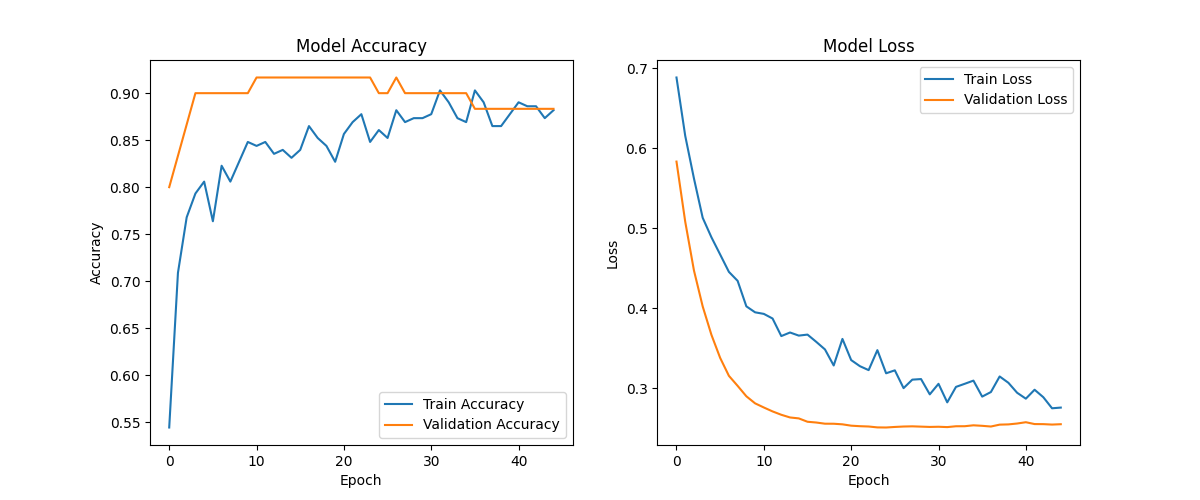
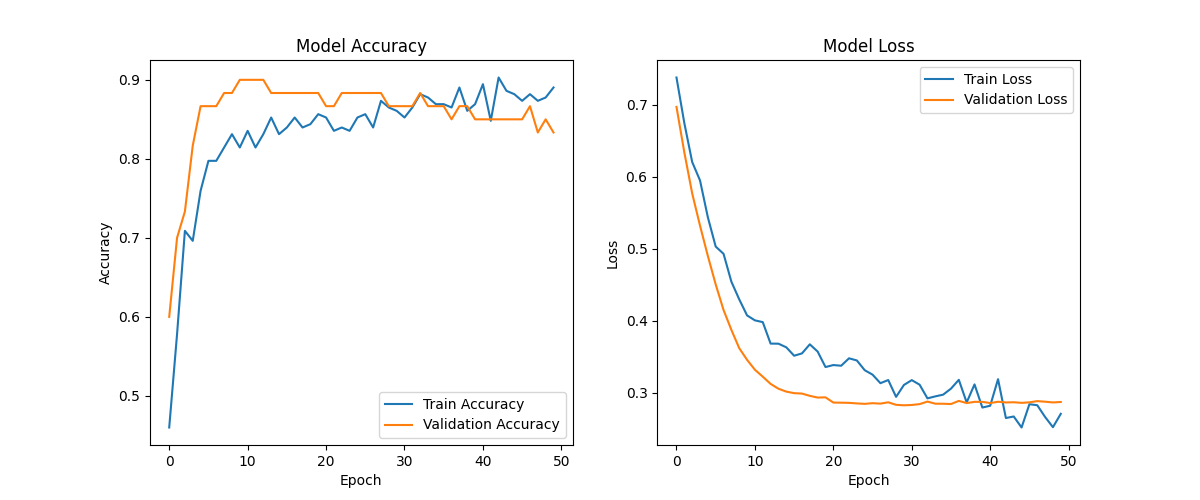
feat: implement ROC-AUC evaluation and chart visualization

diff --git a/src/compare_models.py b/src/compare_models.py
@@ -1,7 +1,10 @@
+import os
 import pandas as pd
+import matplotlib.pyplot as plt
+import seaborn as sns
 from sklearn.ensemble import RandomForestClassifier
 from sklearn.linear_model import LogisticRegression
-from sklearn.metrics import accuracy_score, precision_score, recall_score, f1_score
+from sklearn.metrics import accuracy_score, precision_score, recall_score, f1_score, roc_auc_score
 from src.data_preprocessing import load_and_preprocess_data
 import tensorflow as tf
 
@@ -20,33 +23,61 @@ results = []
 for name, model in models.items():
     model.fit(X_train_scaled, y_train)
     y_pred = model.predict(X_test_scaled)
+    # Get probabilities for the ROC-AUC score
+    y_prob = model.predict_proba(X_test_scaled)[:, 1] 
     
     results.append({
         "Model": name,
         "Accuracy": accuracy_score(y_test, y_pred),
         "Precision": precision_score(y_test, y_pred),
         "Recall": recall_score(y_test, y_pred),
-        "F1-Score": f1_score(y_test, y_pred)
+        "F1-Score": f1_score(y_test, y_pred),
+        "ROC-AUC": roc_auc_score(y_test, y_prob) # NEW METRIC
     })
 
 # 3. Evaluate Your Existing ANN
 print("Loading trained ANN...")
 ann_model = tf.keras.models.load_model('models/heart_ann_model.keras')
-ann_predictions = (ann_model.predict(X_test_scaled) > 0.5).astype(int)
+
+# ANN predict() returns probabilities by default, perfect for AUC!
+ann_probs = ann_model.predict(X_test_scaled).ravel() 
+ann_predictions = (ann_probs > 0.5).astype(int)
 
 results.append({
     "Model": "ANN (Yours)",
     "Accuracy": accuracy_score(y_test, ann_predictions),
     "Precision": precision_score(y_test, ann_predictions),
     "Recall": recall_score(y_test, ann_predictions),
-    "F1-Score": f1_score(y_test, ann_predictions)
+    "F1-Score": f1_score(y_test, ann_predictions),
+    "ROC-AUC": roc_auc_score(y_test, ann_probs) # NEW METRIC
 })
 
-# 4. Generate the Professional Report
+# 4. Generate the Professional Text Report
 results_df = pd.DataFrame(results)
 print("\n--- Model Comparison Report ---")
 print(results_df.to_string(index=False))
 
-# Save for the final presentation
+# Ensure outputs folder exists
+os.makedirs('outputs', exist_ok=True)
+
+# Save the CSV
 results_df.to_csv('outputs/model_comparison.csv', index=False)
-print("\nReport saved to outputs/model_comparison.csv")
+print("\nCSV Report saved to outputs/model_comparison.csv")
+
+# 5. NEW: Generate a Beautiful Graph for the Presentation
+print("Generating visual comparison graph...")
+plt.figure(figsize=(10, 6))
+sns.set_theme(style="whitegrid")
+
+# Melt the dataframe so Seaborn can plot it easily side-by-side
+df_melted = results_df.melt(id_vars="Model", var_name="Metric", value_name="Score")
+
+# Draw the bar chart
+sns.barplot(data=df_melted, x="Metric", y="Score", hue="Model", palette="viridis")
+plt.title("Algorithm Performance Comparison", fontsize=14, fontweight='bold')
+plt.ylim(0.75, 1.0) # Zoom in on the top 25% to make differences visible
+plt.legend(loc='lower right')
+
+# Save the graph
+plt.savefig('outputs/model_comparison_chart.png', bbox_inches='tight')
+print("Presentation Graph saved to outputs/model_comparison_chart.png")